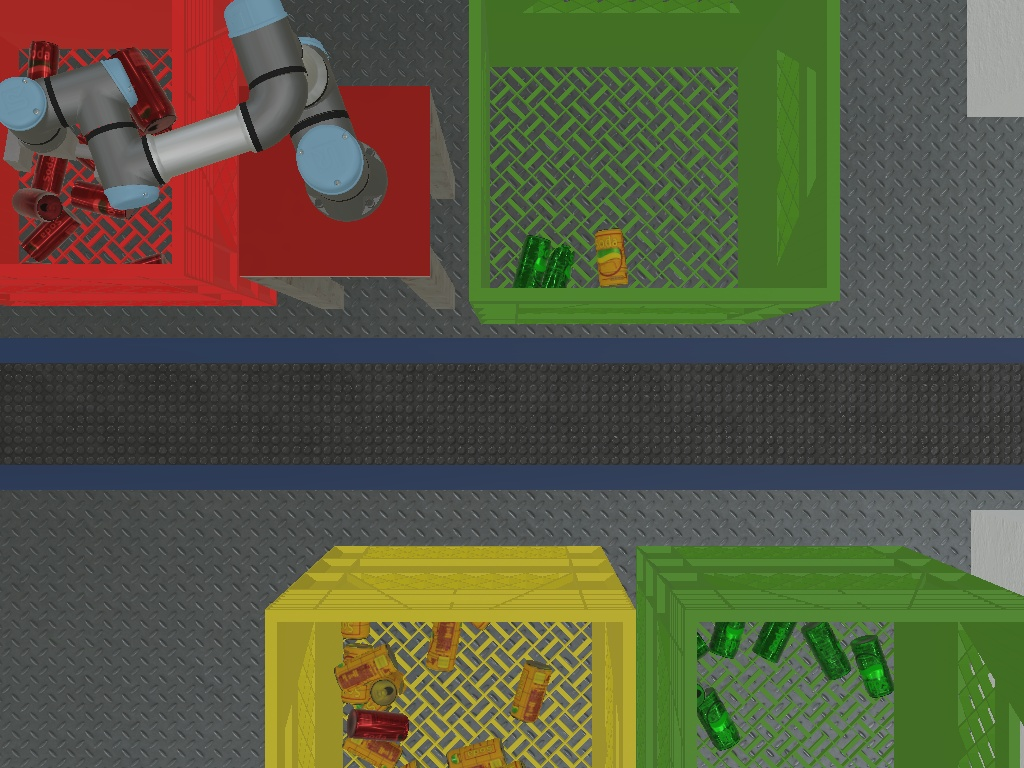
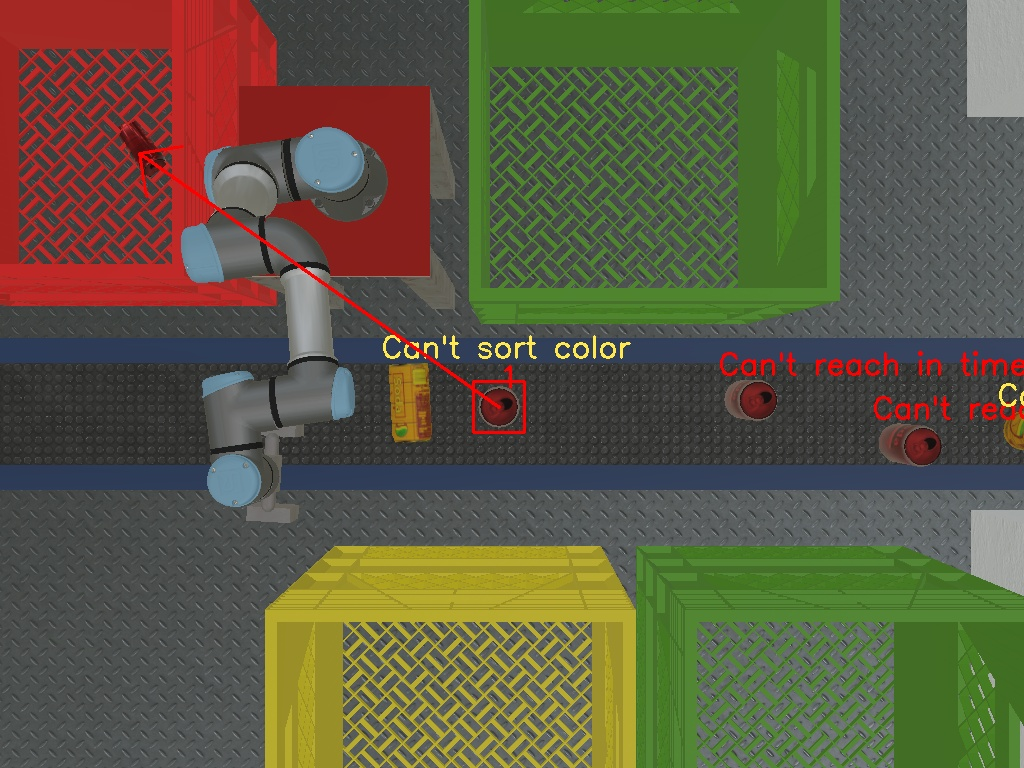
EDIT: cleanup code, fixed minor bugs

diff --git a/controllers/experiment/experiment.py b/controllers/experiment/experiment.py
@@ -9,9 +9,18 @@ import math
 
 random.seed(10)
 
+# easy or hard
+gameMode = "easy"
+# maximum amount of cans, frequency, and spawn limit and conveyor speed
+gameSettings = { "easy" : [40, 10, 20, 0.3], "hard" : [40, 3, 15, 0.5]}
+max_cans, freq, spawn_limit, conveyor_speed = gameSettings[gameMode]  # 20 is doable with 50 freq
+
+
+robot_reward = 1
+
 can_num = 0
 spawn_timer = 0
-spawn_limit = 15
+spawn_limit = 20
 pos_choice = "000"
 
 drawIntention = True
@@ -19,23 +28,9 @@ drawIntentionLimit = 1
 drawRectangle = True
 drawText = True
 
-
 reason_dict = { 'colorError' : "Can't sort color", 
                 'graspError': "Unable to grasp", 
                 'proximityError': "Can't reach in time"}
-
-# 50-33 takes 100sec
-#max_cans = 20  # 20 is doable with 50 freq
-#freq = 50  # Less is more - 50 is doable
-max_cans = 40  # 20 is doable with 50 freq
-freq = 3  # Less is more - 50 is doable
-# from pyutil import filereplace
-# def fileChanger(textToSearch, textToReplace):
-#     for file in os.listdir("resources"):
-#         f = "resources/" + file
-#         filereplace(f, textToSearch, textToReplace)
-
-# fileChanger('translation 0 0.02', 'translation 0 0.04')
 
 
 def tryGetCratePos():
@@ -93,21 +88,6 @@ def getFirstCan(candidates):
             return key
     return False
 
-
-# def generateCans():
-#     global can_num, pos_choice
-#     can_num += 1
-#     #can_distances = ["000", "999", "555", "535", "515", "495", "475", "455"]
-#     can_distances = ["000", "999", "556", "479", "506", "490", "530"]
-#     can_distances.remove(pos_choice)
-#     can_colors = ["green", "yellow", "red"]
-#     pos_choice = random.choice(can_distances)
-#     can = "resources/" + random.choice(can_colors) + "_can_" + pos_choice + ".wbo"
-#     root_children.importMFNode(-1, can)
-#     if pos_choice not in ["000", "999"]:
-#         can_reposition_dict = {"556" : 0.55, "479" : 0.48, "506" : 0.51, "490" : 0.49, "530" : 0.53}
-#         root_children.getMFNode(-1).getField("translation").setSFVec3f([2,7, 0.87, can_reposition_dict[pos_choice]])
-
 def generateCans():
     global can_num, pos_choice
     can_num += 1
@@ -132,7 +112,7 @@ def endGame():
 def positionCheck(pos, sens, limit = 0.1):
     global movementLock
     if len(pos):
-        print("Target position at: {}, position is at {}".format(pos, [math.degrees(sens[i].getValue()) for i in range(len(pos))]))
+        #print("Target position at: {}, position is at {}".format(pos, [math.degrees(sens[i].getValue()) for i in range(len(pos))]))
         if all([abs(sens[i].getValue() - math.radians(pos[i])) < limit for i in range(len(pos))]):
             movementLock = False
             return True 
@@ -160,7 +140,7 @@ def drawImage(camera, colors, candidates):
         perceivedColor = candidates[obj_id][0][1]
         color = colors[perceivedColor] if reason != "graspError" else colors[candidates[obj_id][0][0]]
         #If the error is "graspError" and the trueColor != original
-        #print(color)
+
         color = np.rint(np.array(color)*255)
         size = np.array(obj.get_size_on_image()) + padding
         start_point = np.array(obj.get_position_on_image()) - (size / 2) 
@@ -227,7 +207,7 @@ def countCansOnConveyor(missed, cansOnConveyor):
     return cansOnConveyor, missed
 
 
-def pickTargets(cansOnConveyor, choices=5, min_dist = 0.7):
+def pickTargets(cansOnConveyor, choices=5, min_dist = 0.7, outOfReachLimit = 0.7):
     """
     Gets five targets based on 3 criteria (assessing each can):
     """
@@ -248,8 +228,10 @@ def pickTargets(cansOnConveyor, choices=5, min_dist = 0.7):
             if val[1] in ["green", "red"]:
                 if "ROTATED" in supervisor.getFromId(key).getDef():
                     reason += "graspError"
-                elif candidates[key][1][0] <= 0.7:
+                elif candidates[key][1][0] <= outOfReachLimit: # + (tcp.getPosition()[0] - candidates[key][1][0]  * conveyor_speed * (timestep/1000)):
                     reason += "proximityError"
+                #elif candidates[key][1][0] < 1.2 and  candidates[key][1][0] < 1 + np.linalg.norm(np.array(candidates[key][1][::2]) - np.array(tcp.getPosition()[::2])) > outOfReachLimit:
+                #    reason += "proximityError"
                 else:
                     top5_keys.append(key)
                     top5_dists.append(candidates[key][1][0])
@@ -276,6 +258,8 @@ def pickTargets(cansOnConveyor, choices=5, min_dist = 0.7):
     for i in range(len(top_choices)):
         candidates[top_choices[i][1]][2] = str(i+1)
 
+
+
     for keys, vals in candidates.items():
         print (keys, vals)
     print("------------------------------------")
@@ -285,7 +269,7 @@ def pickTargets(cansOnConveyor, choices=5, min_dist = 0.7):
 
 def setPoseRobot(move_dic, can_pose):
     target = []
-    print(can_pose)
+
     try:
         movementLock = True
         poses = move_dic[can_pose]
@@ -304,7 +288,8 @@ robot_connector = supervisor.getDevice("connector")
 
 timestep = int(supervisor.getBasicTimeStep())
 tcp = supervisor.getFromDef('TCP')
-cr_s = supervisor.getFromDef('CONVEYOR').getField("speed").getSFFloat() * 3 # Get the speed of the conveyor to scale the distances
+cr_s = conveyor_speed * 3
+supervisor.getFromDef('CONVEYOR').getField("speed").setSFFloat(conveyor_speed)  # Get the speed of the conveyor to scale the distances
 padding = np.array([10, 10])
 camera = Camera("camera")
 camera.enable(timestep)
@@ -370,18 +355,6 @@ movementLock = False
 stages = {"Prepare2grap" : False, "LiftOff": False, "Sorting": False, "Release" : False, "Back2Ready": False, "GetReady" : False}
 target = []
 
-# move_down_dic_l = {0.55 : [-20.15, -142.34, -51.13, -74.96, 91, 64.25],
-#                  0.53 : [-21.88, -132.16, -65.76, -70.54, 91.87, 64.25],
-#                  0.51 : [-22.86, -128.28, -72.68, -67.54, 91.88, 64.25 ],
-#                  0.49 : [-23.88, -124.65, -78.73, -65.13, 91.9, 64.25],
-#                  0.48 : [-24.48, -122.99, -81.99, -63.54, 91.91, 64.25]}
-
-# move_up_dic_l = {  0.55 : [-20.15, -144.68, -16.47, -107.28, 91.78, 64.25],
-#                  0.53 : [-21.89, -129.37, -44.87, -94.22, 91.83, 64.25],
-#                  0.51 : [-22.85, -124.38, -51.91, -92.20, 91.85, 64.25],
-#                  0.49 : [-23.88, -120.9, -48.42, -99.2, 91.85, 64.25],
-#                  0.48 : [-24.47, -118.4, -52.34, -97.79, 91.87, 64.25]}
-
 
 move_down_dic_l = {0.55 : [-12, -124.8, -67.83, -77.53, 92.25, 84],
                  0.53 : [-21.88, -132.16, -65.76, -70.54, 91.87, 64.25],
@@ -431,23 +404,25 @@ root_children = supervisor.getRoot().getField("children")
 robot_connector = supervisor.getDevice("connector")
 robot_connector.enablePresence(timestep)
 
+can_tcp_dist = 999
+
+
 while supervisor.step(timestep) != -1:
     if not bool(crate_pos_img["GREEN_ROBOT_CRATE"]): tryGetCratePos()
     cansOnConveyor, missed = countCansOnConveyor(missed, cansOnConveyor)
+
     candidates = pickTargets(cansOnConveyor, 3)
-    #print(cansOnConveyor)
+
     selection = supervisor.getSelected()
     selectionName = selection.getDef() if selection else ""
     selectionColor = selectionName.split('_')[0]
-    # for keys, vals in cansOnConveyor.items():
-    #     print (keys, vals)
+
     if "CAN" in selectionName:
         canSelection = selection
         canColor = selectionColor
         
     elif ("CRATE" in selectionName) and canSelection:
         if canSelection.getId() == graspedCan and robot_connector.isLocked():
-            print("\n\n DON*T TAKE IT \n\n")
             canSelection = None
             continue
         new_position = selection.getField("translation").getSFVec3f()
@@ -470,14 +445,10 @@ while supervisor.step(timestep) != -1:
         if can_num < max_cans:
             generateCans()
             spawn_timer = 0
-            #supervisor.getFromDef("PHYSICS").getField("mass").setSFFloat(0.1)
-        #pass
-    #print("Correct: {}\t Incorrect: {}\t Missed: {}\t Total: {}".format(correctSort, wrongSort, missed, correctSort-wrongSort-missed))
-    #print(onConveyorRanked(cansOnConveyor))
+
     drawImage(camera, colors, candidates)
     if can_num >= max_cans and not bool(cansOnConveyor):
         endGame()
-
 ############################################ 
 ###### R O B O T     M O V E M E N T #######
 ############################################
@@ -494,7 +465,7 @@ while supervisor.step(timestep) != -1:
     # Update variables & check if target is still available
     if busy:
         if stage not in ["Sorting", "Release", "LiftOff"] and not robot_connector.isLocked():
-            move_dict = {"up" : move_up_dic_r, "down" : move_down_dic_r} if (can_dist[0] > 0.8*cr_s) else {"up" : move_up_dic_l, "down" : move_down_dic_l} 
+            move_dict = {"up" : move_up_dic_r, "down" : move_down_dic_r} if (can_dist[0] > (max(0.8*cr_s,1.22)) and can_tcp_dist >= 0) else {"up" : move_up_dic_l, "down" : move_down_dic_l} 
             if index not in cansOnConveyor.keys() or candidates[index][2] != "1":
                 print("++++++++++++++ INTERRUPTED ++++++++++++++")
                 for key in stages.keys(): stages[key] = False
@@ -502,25 +473,27 @@ while supervisor.step(timestep) != -1:
                 if not getFirstCan(candidates): target = setPoseRobot(custom_dic, "ready")
             else:
                 can_dist = supervisor.getFromId(index).getField("translation").getSFVec3f()
-                
+                can_tcp_dist = can_dist[0]-tcp.getPosition()[0]
+
     if not busy and getFirstCan(candidates):
          index = getFirstCan(candidates) #####SETTING THE CAN, CAN BE REPALCED BY AN ACTUAL ID#####
          can_dist = supervisor.getFromId(index).getField("translation").getSFVec3f()
+         can_tcp_dist = can_dist[0]-tcp.getPosition()[0]
          target_pos = round(can_dist[2], 2)
-         target = setPoseRobot(move_dict["up"], target_pos) if abs(can_dist[0]-tcp.getPosition()[0]) < 0.75*cr_s else None
+         target = setPoseRobot(move_dict["up"], target_pos) if abs(can_tcp_dist) < 0.75*cr_s else None
          stages["GetReady"] = True if target else False   
 
     if stages["GetReady"] and positionCheck(target, sensors):
          target = setPoseRobot(move_dict["up"], target_pos)
+         print(can_tcp_dist)
 
-
-    if stages["GetReady"] and positionCheck(target, sensors) and 0 < (can_dist[0]-tcp.getPosition()[0]) < 0.1*cr_s :
+    if stages["GetReady"] and positionCheck(target, sensors) and 0 < (can_tcp_dist) < 0.1*cr_s :
          
          stages["GetReady"] = False
          stages["Prepare2grap"] = True
          target = setPoseRobot(move_dict["down"], target_pos)      
     
-    if stages["Prepare2grap"] and (can_dist[0]-tcp.getPosition()[0]) < -0.05:
+    if stages["Prepare2grap"] and (can_tcp_dist) < -0.05:
          stages["Prepare2grap"] = False
          stages["GetReady"] = True
 
@@ -545,10 +518,11 @@ while supervisor.step(timestep) != -1:
         moveFingers(fingers, mode = "open") 
         robot_connector.unlock()
         target = setPoseRobot(custom_dic, candidates[index][0][1])
-        robot_correct += 2 if candidates[index][0][1] == candidates[index][0][0] else 0
-        robot_incorrect += 2 if candidates[index][0][1] != candidates[index][0][0] else 0
+        robot_correct += robot_reward if candidates[index][0][1] == candidates[index][0][0] else 0
+        robot_incorrect += robot_reward if candidates[index][0][1] != candidates[index][0][0] else 0
         
 
     if  stages["Release"] and positionCheck(target, sensors, 0.01) and not robot_connector.isLocked() :
         target = setPoseRobot(custom_dic, "ready")
+        stages["Release"] = False
         stages["GetReady"] = True

diff --git a/controllers/experiment/file_changery.py b/controllers/experiment/file_changery.py
@@ -1,0 +1,9 @@
+from pyutil import filereplace
+
+def fileChanger(textToSearch, textToReplace):
+    for file in os.listdir("resources"):
+        f = "resources/" + file
+        filereplace(f, textToSearch, textToReplace)
+
+
+fileChanger('translation 0 0.02', 'translation 0 0.04')
